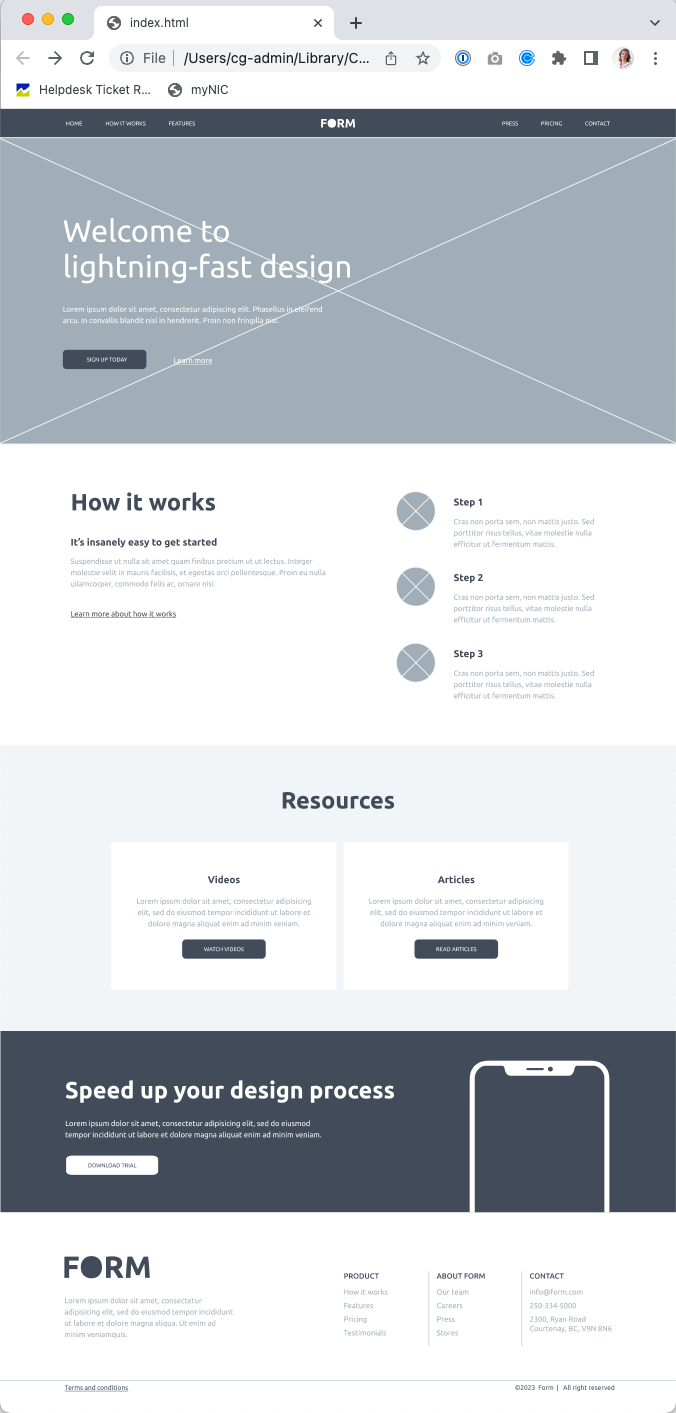
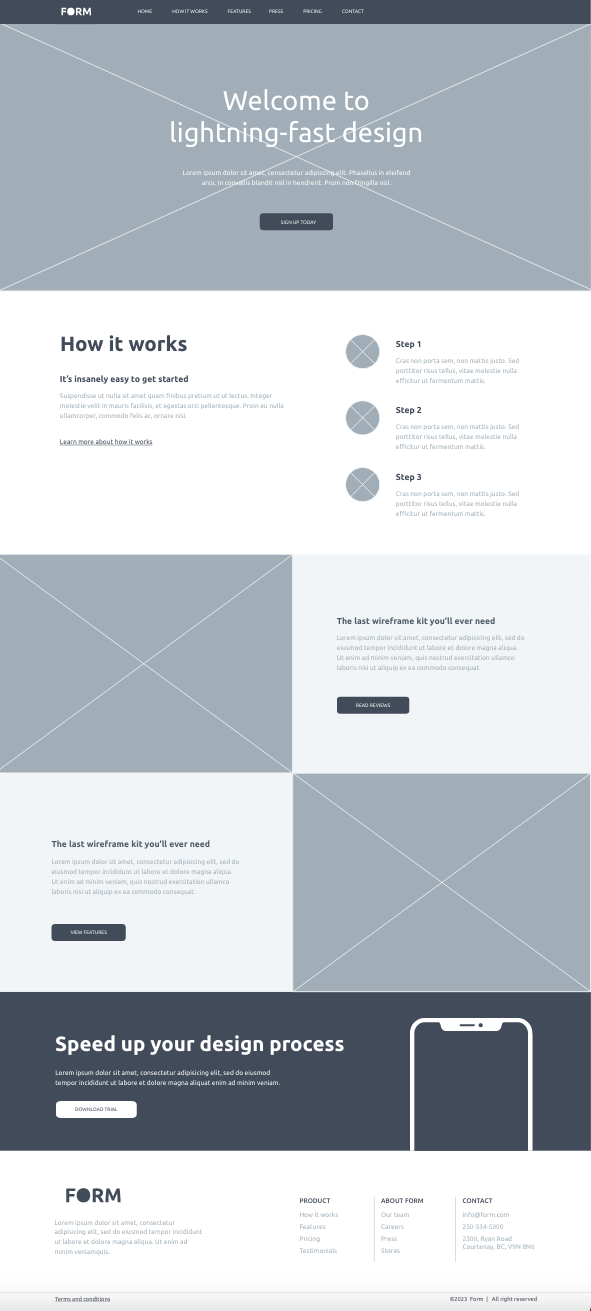
Update wireframes

diff --git a/README.md b/README.md
@@ -1,4 +1,4 @@
-# Week 8 Exercise
+# Flexbox
 
 ## Objectives
 You will code a webpage made up of a series of different content blocks that you can choose from some provided layouts. You will use flexbox and the CSS box model to organize the content on the page and fine-tune the layouts of the different blocks. This exercise also provides the opportunity to practice coding using an Adobe XD wireframe as a visual and CSS reference.
@@ -11,10 +11,10 @@ Remember to:
 * Clone your remote exercise repository onto your local machine.
 * Add a comment in the head element of the homepage including: the course code and your section number - your name - Exercise 6. Example:
 ```
-<!-- DGL 103 CVS1 - your name - Week 8 Exercise -->
+<!-- DGL 103 CVS1 - your name - Flexbox -->
 ```
 ### 2. Choose your content block layouts
-You can choose your content blocks by visiting this site: https://xd.adobe.com/view/ebaa92ad-77bf-4f93-bd87-54125a2f9b6b-bef9/.
+You can choose your content blocks by visiting this site: https://xd.adobe.com/view/880fa750-7ec7-44cc-94f7-e8a7d5281509-dd5c/.
 There are two layouts for each of the six provided content blocks. You must choose one layout from each content block and use the provided high fidelity wireframes as a guide to code the HTML and CSS for a webpage that has the following structure:
 1. Header
 2. Hero
@@ -28,7 +28,7 @@ To easily view your options, click on Wireframes > Tree icon:
 
 ### 3. Code the content blocks
 1. In VS Code, create two new files called index.html and style.css. Link your external stylesheet to your HTML file. 
-2. Code each one of your chosen content blocks. Some CSS is availble for you to copy in the XD link (see below for instructions on how to view the CSS). The layouts must be coded from scratch using flexbox and must look just like the wireframes when finished. **Using Bootstrap is not allowed.** The content blocks should be centered on the page with negative horizontal space on either side.
+2. Code each one of your chosen content blocks. Some CSS is available for you to copy in the XD link (see below for instructions on how to view the CSS). The layouts must be coded from scratch using flexbox and must look just like the wireframes when finished. The content blocks should be centered on the page with negative horizontal space on either side.
 
 Depending on which content blocks you choose, your finished webpage could look like this for example:
 ![Image of sample webpage](images/example.png)
@@ -46,13 +46,7 @@ Depending on which content blocks you choose, your finished webpage could look l
 * Add a few comments to explain your HTML and CSS code and highlight anything of interest.
 
 ### 5. Check for errors
-Use the VSCode HTMLHint extension and validate your code to make sure that it is correct (https://validator.w3.org/#validate_by_upload for HTML, https://jigsaw.w3.org/css-validator/ for CSS).
+* Use the VSCode HTMLHint extension and validate your HTML code to make sure that it is correct: https://validator.w3.org/#validate_by_upload. Take a screenshot of the results.
+* Validate your CSS code to make sure that it is correct: https://jigsaw.w3.org/css-validator/ for CSS. Take a screenshot of the results.
 
-### 6. Submit your work
-1. Commit your changes.
-2. Push your changes to GitHub. 
-3. Submit in Brightspace to the "Unit 3 Exercises" assignment and follow the instructions. 
-4. If you have been using a lab computer on campus, remember to restart the computer.
-
-## Deadlines
-Assignments must be submitted before the end of the week but they will only be graded at the end of every unit. Late assignments will not be accepted and will receive an F. You can complete and submit a contract that allows you to extend the deadline for an assignment but you must email it to your instructor a minimum of 48 hrs before the deadline. Deadline extensions are only allowed for those unplanned, unexpected emergencies that life sometimes throws at us, and they will only be approved by your instructor if you follow the correct process. See the Course Info folder in BrightSpace for more info.
+**You have now completed your exercise but you still need to push your edits to GitHub and submit it in Brightspace. Make sure to follow the instructions in the How to Complete Your Exercises Guide.** 
